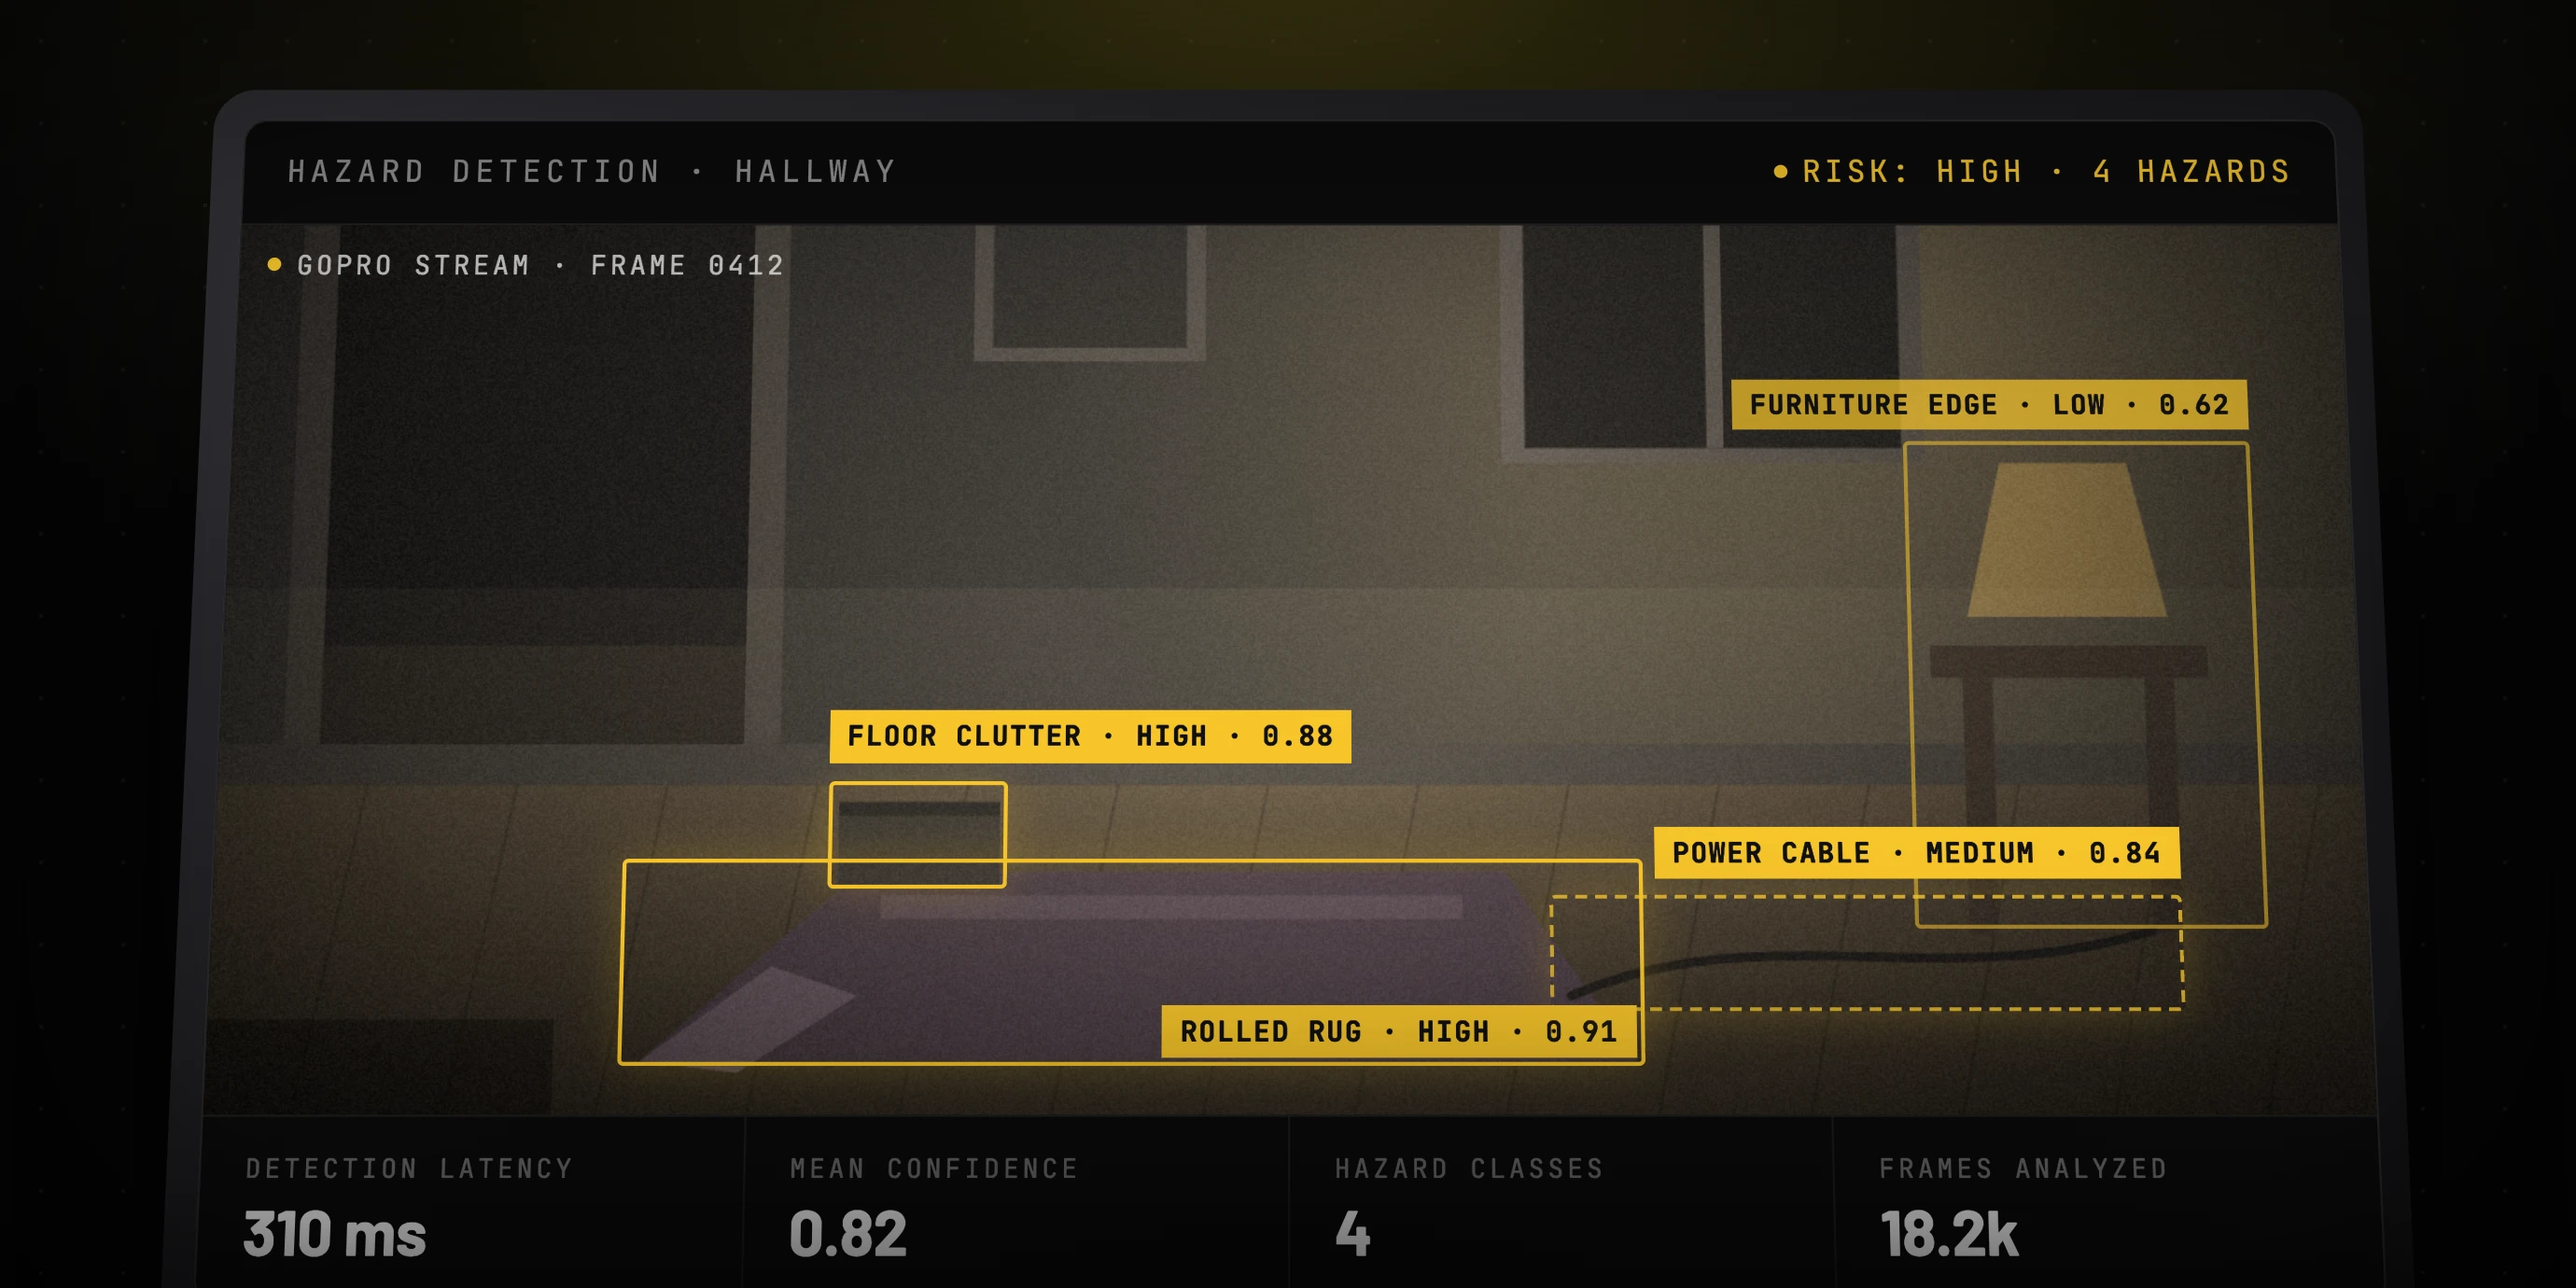
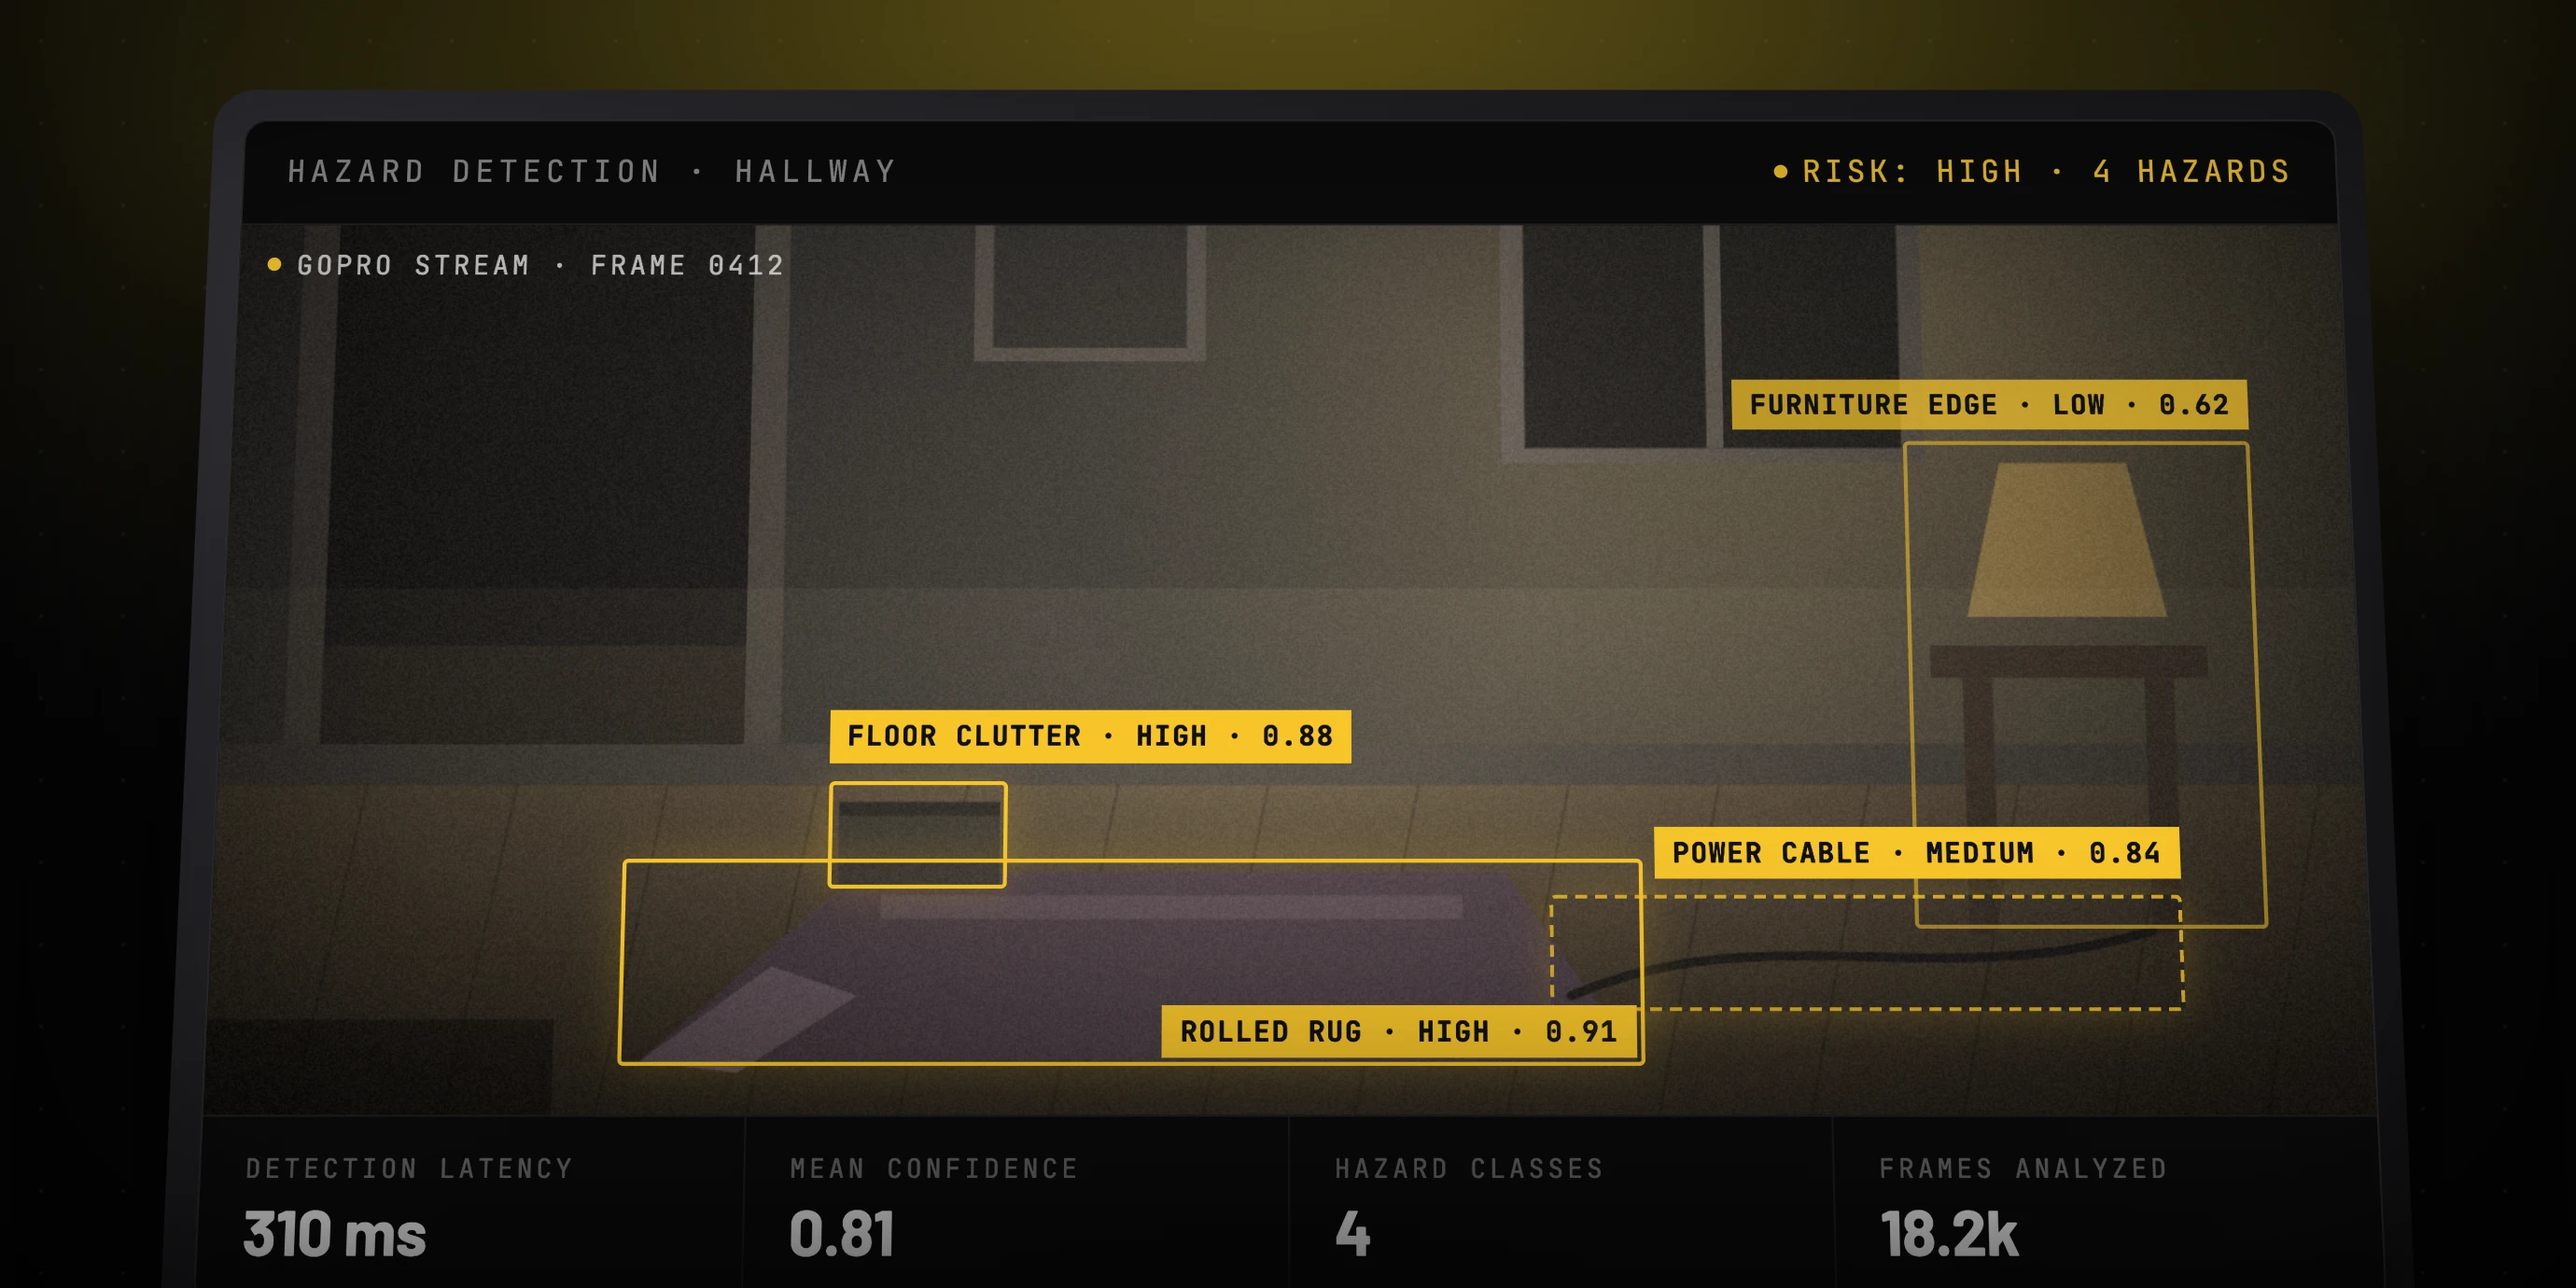
enlarge wat.ai monitor, soften glow, update home hero

Changed region(s): [[0.1558, 0.0, 0.8413, 0.0935], [0.3428, 0.9348, 0.3739, 0.9659]]

diff --git a/src/style.css b/src/style.css
@@ -946,13 +946,25 @@ body {
 }
 
 /* WAT.ai (id 1) detail: preserve true image shape and transparency */
+/* WAT.ai monitor renders larger than the standard frame */
+.project-detail-image-container.wat-detail {
+  max-width: 1000px;
+  width: min(75vw, 1000px);
+}
+
+@media (max-width: 768px) {
+  .project-detail-image-container.wat-detail {
+    width: 100%;
+  }
+}
+
 .wat-image {
   object-fit: contain;
   width: 100%;
   height: auto;
-  filter: drop-shadow(0 0 18px rgba(255, 206, 26, 0.85))
-    drop-shadow(0 0 36px rgba(255, 206, 26, 0.6))
-    drop-shadow(0 0 70px rgba(255, 206, 26, 0.4)); /* FFCE1A for WAT.ai */
+  filter: drop-shadow(0 0 18px rgba(255, 206, 26, 0.5))
+    drop-shadow(0 0 36px rgba(255, 206, 26, 0.32))
+    drop-shadow(0 0 70px rgba(255, 206, 26, 0.2)); /* FFCE1A for WAT.ai */
 }
 
 /* Add more space below WAT.ai image on mobile */
